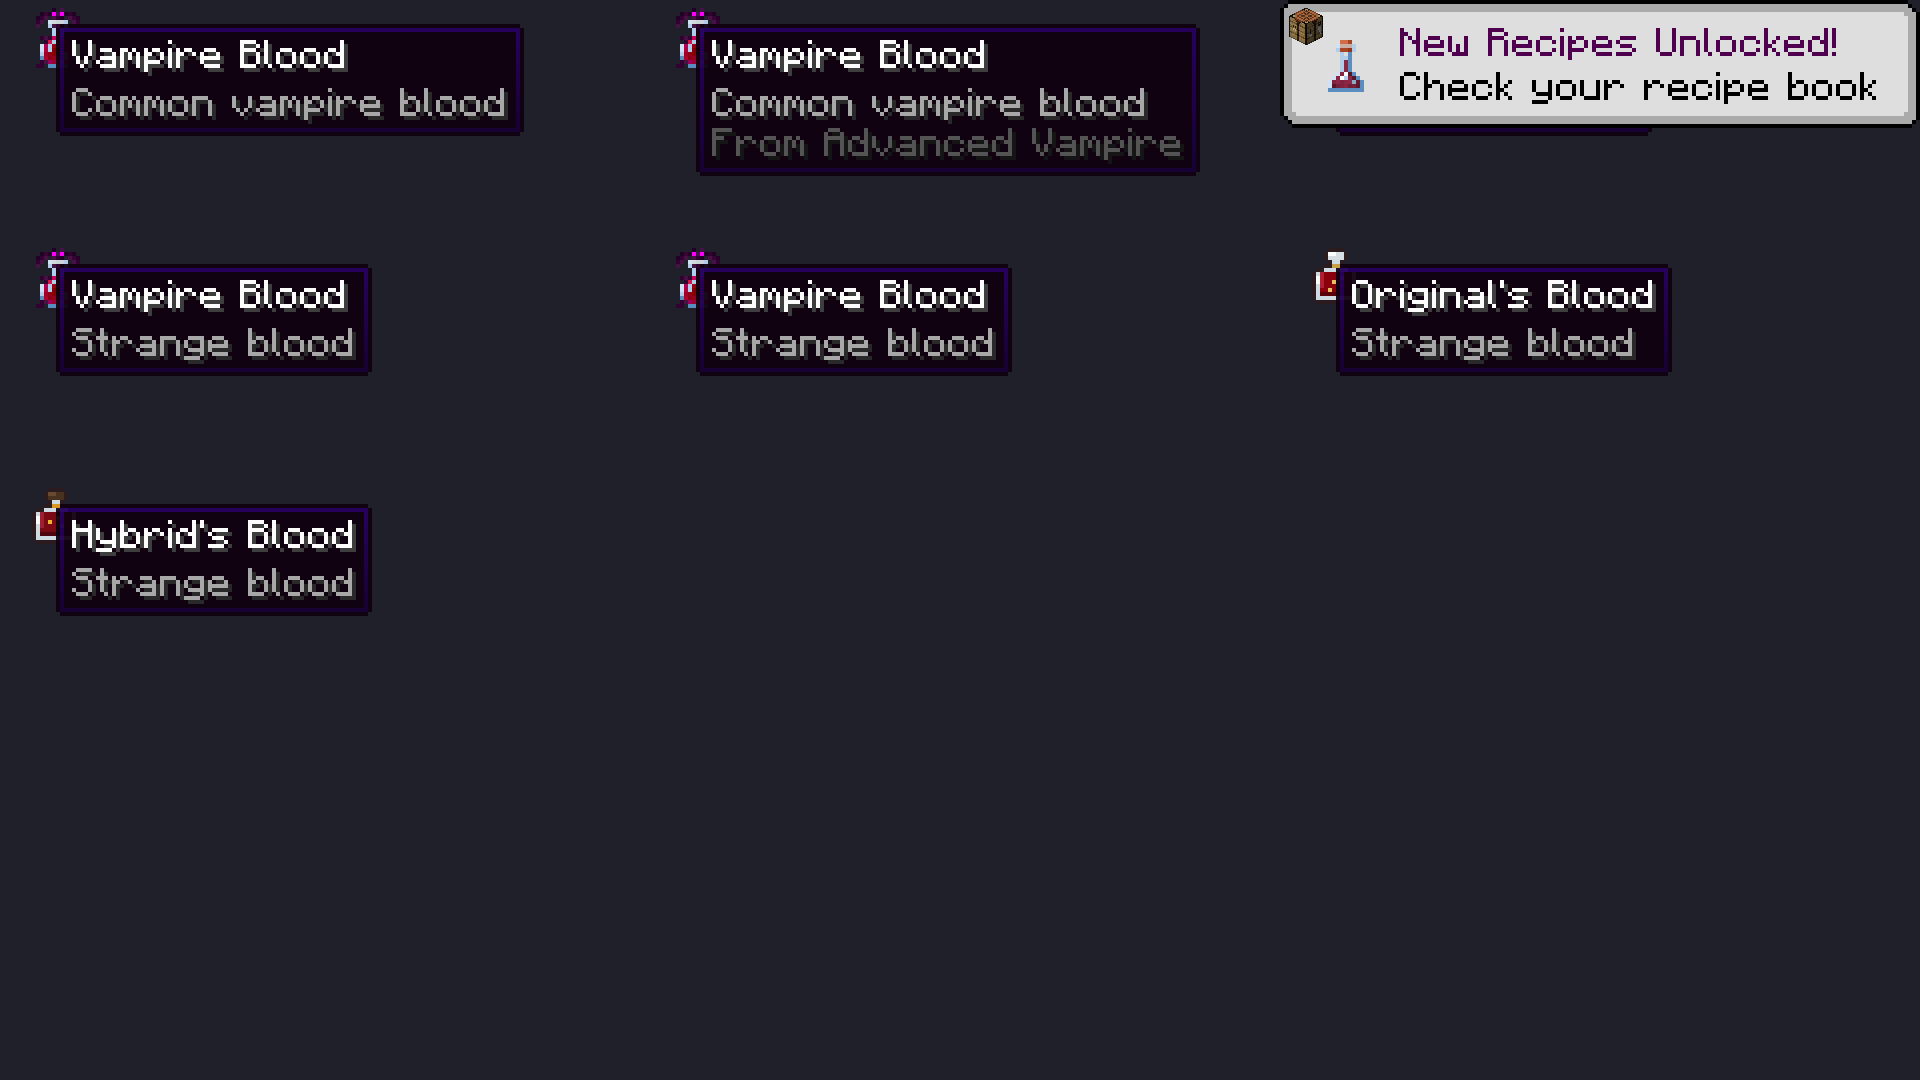
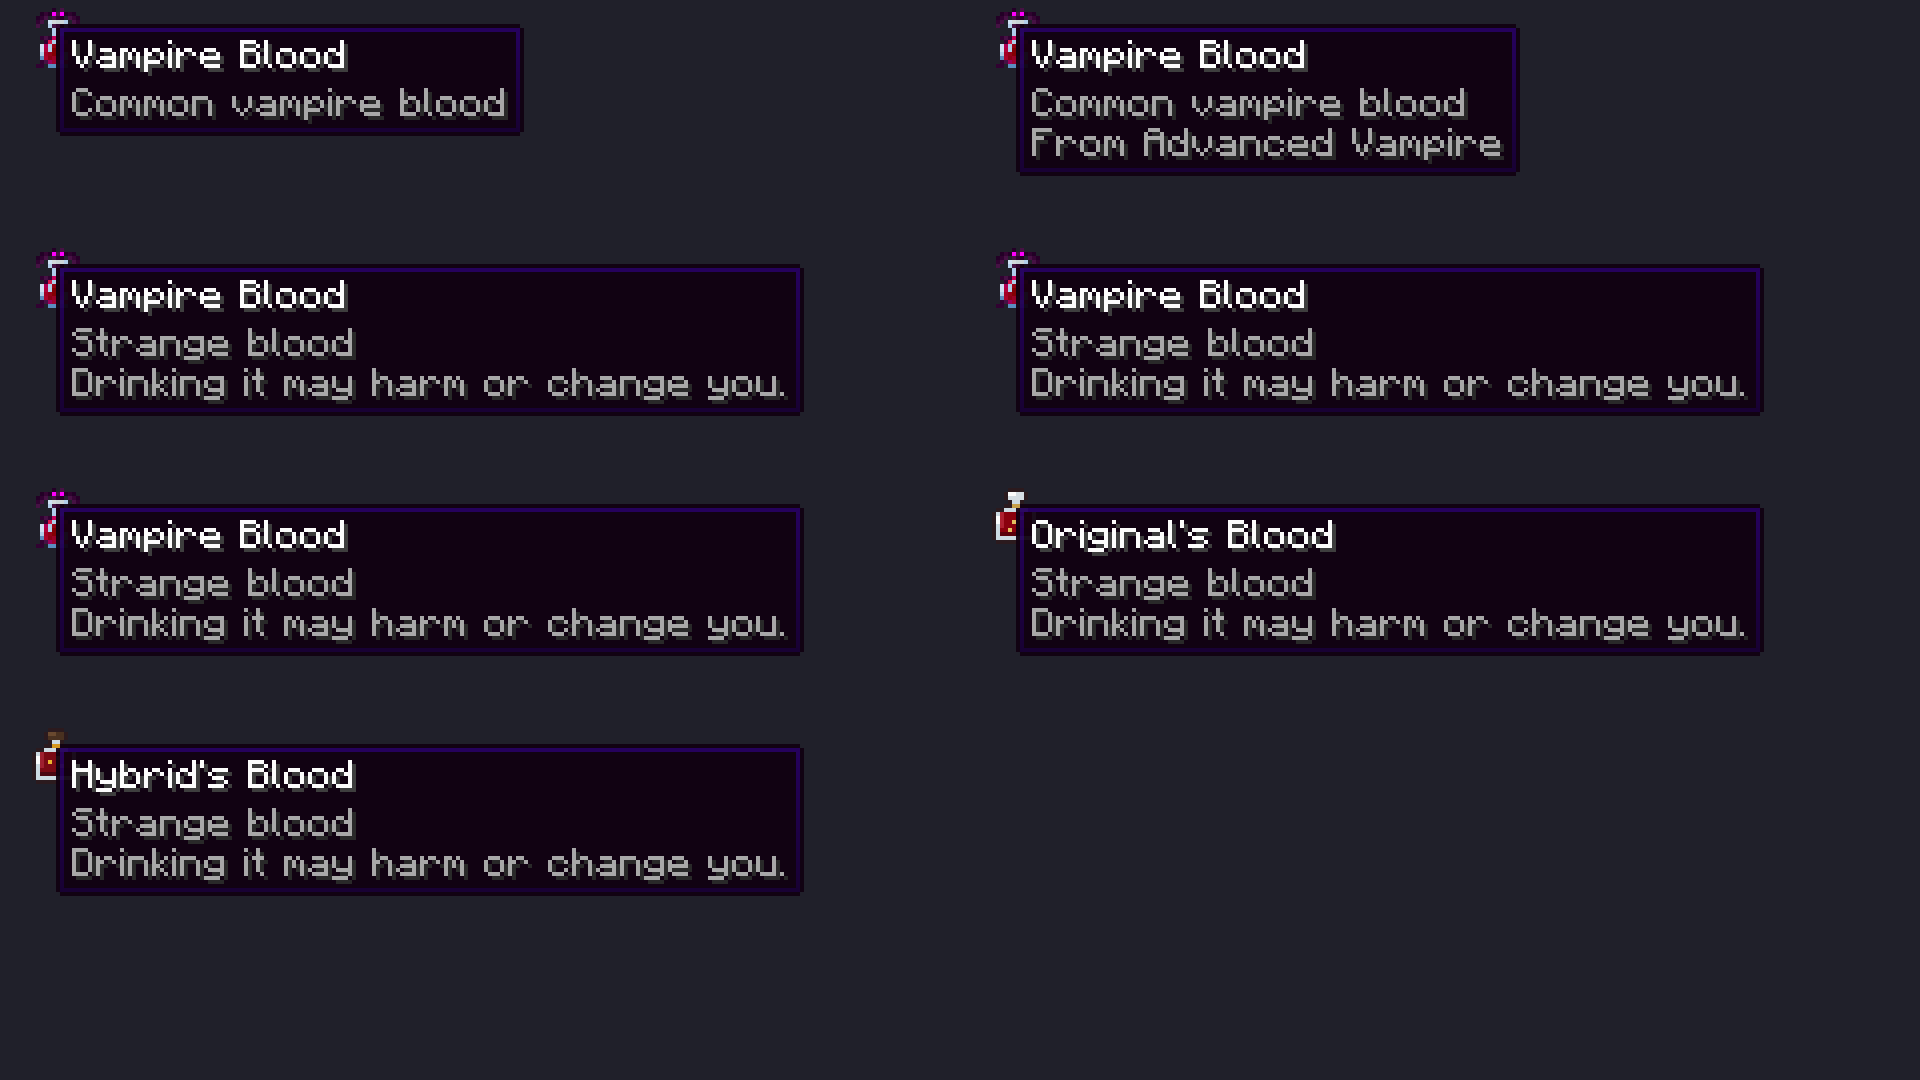
feat(blood): retaken tooltip shot without the recipe toast

diff --git a/src/main/java/net/ofatech/supernaturalbloodlines/client/BloodShots.java b/src/main/java/net/ofatech/supernaturalbloodlines/client/BloodShots.java
@@ -113,8 +113,8 @@ public final class BloodShots {
                     continue;
                 }
                 List<Component> lines = new ArrayList<>(s.getTooltipLines(Item.TooltipContext.of(mc.level), mc.player, TooltipFlag.NORMAL));
-                int x = 6 + (col % 3) * (width / 3);
-                int y = 22 + (col / 3) * 60;
+                int x = 6 + (col % 2) * (width / 2);
+                int y = 22 + (col / 2) * 60;
                 g.renderItem(s, x, y - 20);
                 g.renderTooltip(font, lines, Optional.empty(), x, y);
                 col++;
